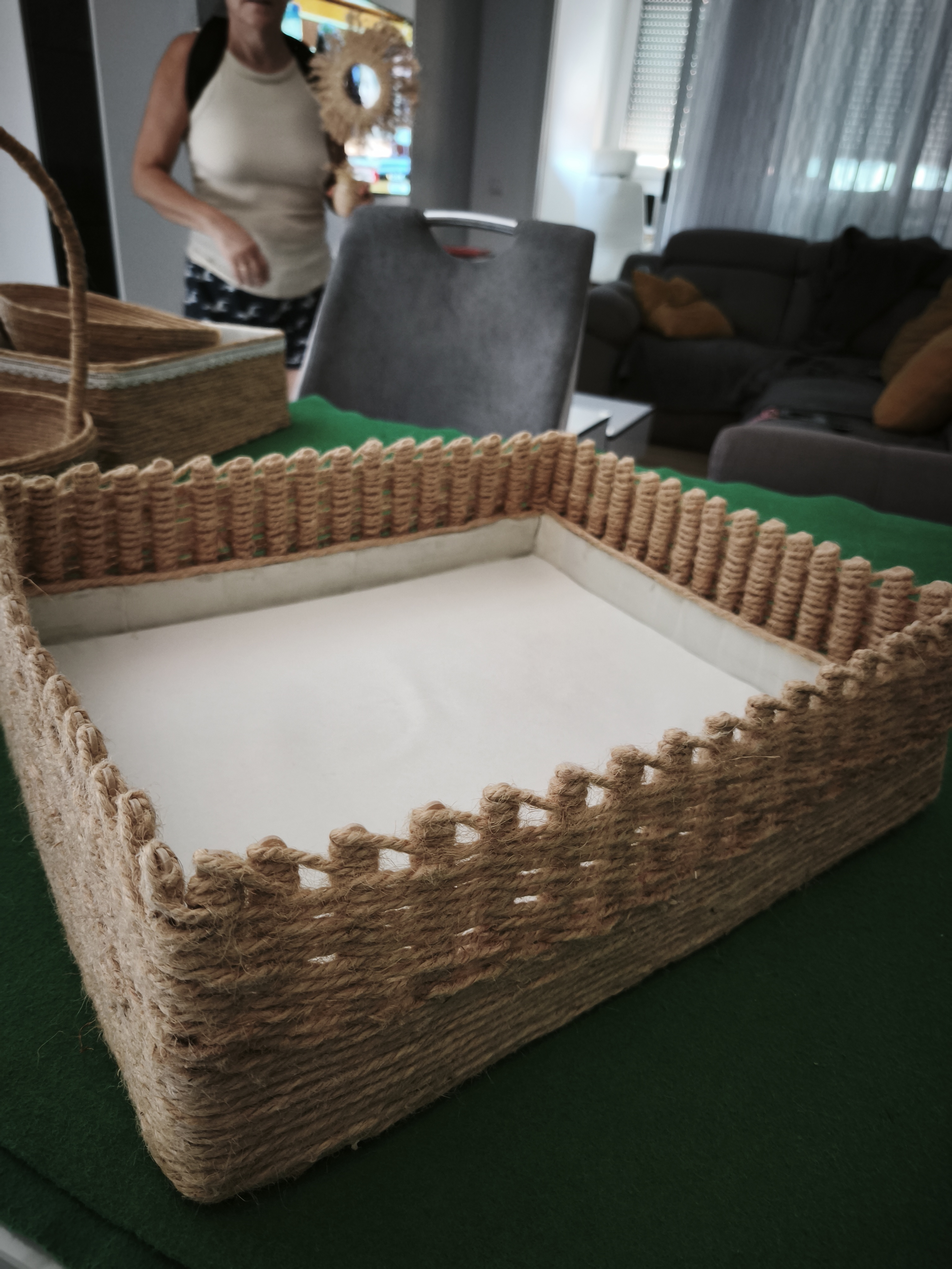
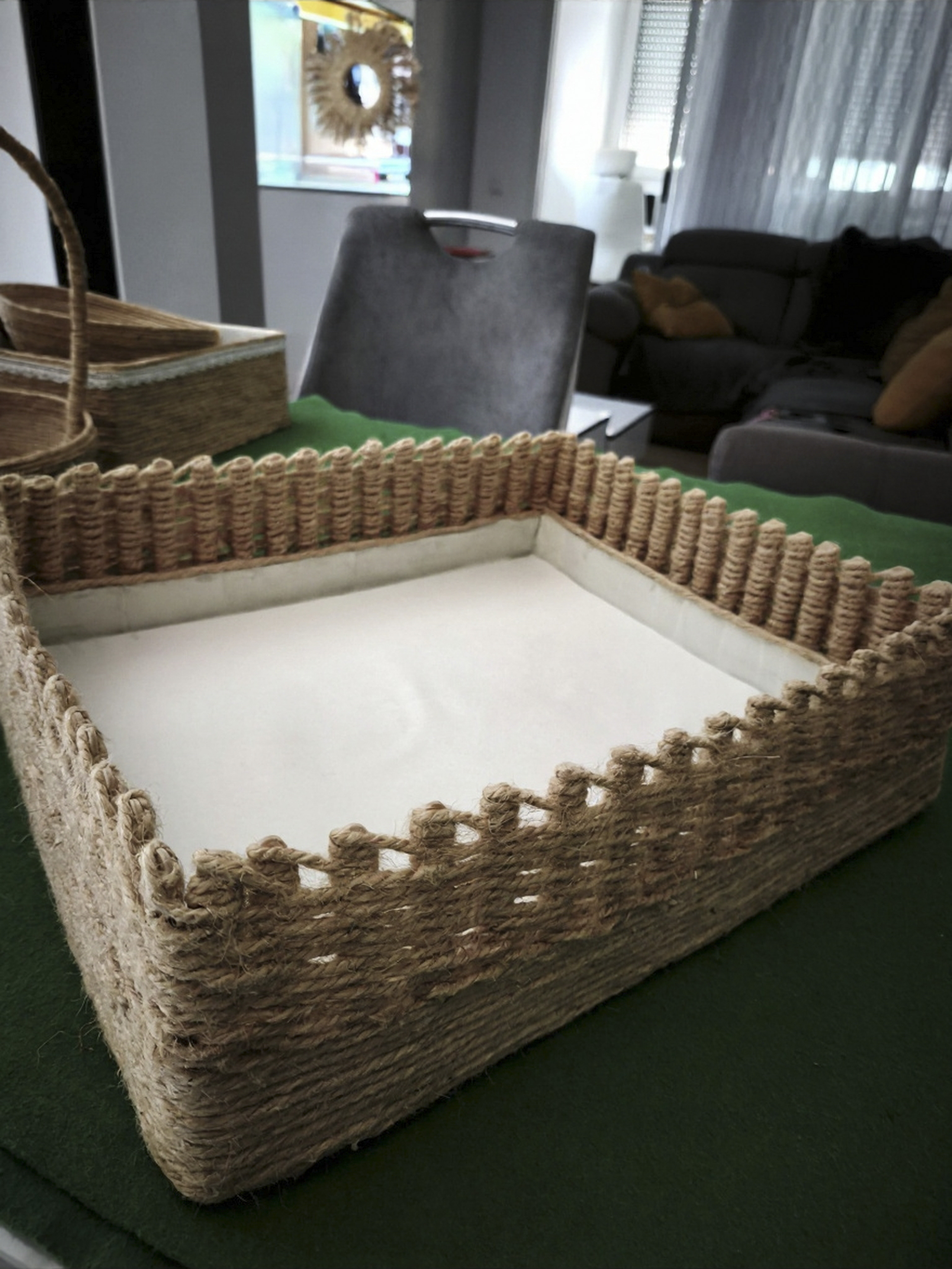
nuevas fotos
nuevas fotos

diff --git a/index.html b/index.html
@@ -4,7 +4,7 @@
     <meta charset="utf-8">
     <meta name="viewport" content="width=device-width, initial-scale=1">
     <meta name="theme-color" content="#f7f3ea">
-    <meta name="description" content="Eventere: artesanía hecha a mano para celebrar, decorar y regalar. Descubre las creaciones de Teresa.">
+    <meta name="description" content="Eventere: artesanía hecha a mano para celebrar, decorar y regalar. Descubre las creaciones de la artista.">
     <title>Eventere — Detalles que hacen especiales tus momentos</title>
     <link rel="preconnect" href="https://fonts.googleapis.com">
     <link rel="preconnect" href="https://fonts.gstatic.com" crossorigin>
@@ -45,7 +45,7 @@
         <div class="hero-copy">
           <p class="eyebrow"><span></span> Artesanía hecha con cariño</p>
           <h1 id="hero-title">Detalles únicos para <em>momentos inolvidables.</em></h1>
-          <p class="hero-intro">Creaciones artesanales de Teresa para celebrar, decorar y regalar. Cada pieza se hace con calma, cuidando lo que la hace especial.</p>
+          <p class="hero-intro">Creaciones artesanales de la artista para celebrar, decorar y regalar. Cada pieza se hace con calma, cuidando lo que la hace especial.</p>
           <div class="hero-actions">
             <a class="button button-dark" href="#coleccion">Descubrir la colección <span aria-hidden="true">↓</span></a>
             <a class="text-link" href="#taller">Conoce el taller <span aria-hidden="true">↗</span></a>
@@ -81,7 +81,7 @@
       <section class="collection section-wrap" id="coleccion" aria-labelledby="collection-title">
         <div class="section-heading">
           <div>
-            <p class="eyebrow"><span></span> El catálogo de Teresa</p>
+            <p class="eyebrow"><span></span> El catálogo de la artista</p>
             <h2 id="collection-title">Piezas con su propia <em>historia.</em></h2>
           </div>
           <p class="section-intro">Una selección de creaciones artesanales para vestir tus celebraciones y dar calidez a cada rincón.</p>
@@ -98,9 +98,9 @@
       </section>
 
       <section class="atelier" id="taller" aria-labelledby="atelier-title">
-        <div class="atelier-images" aria-label="Teresa trabajando en sus creaciones">
+        <div class="atelier-images" aria-label="La artista trabajando en sus creaciones">
           <figure class="atelier-photo atelier-photo-main">
-            <img src="img/IMG_20260728_183547.jpg" alt="Teresa trabajando cuidadosamente en una pieza artesanal" loading="lazy">
+            <img src="img/IMG_20260728_183547.jpg" alt="La artista trabajando cuidadosamente en una pieza artesanal" loading="lazy">
           </figure>
           <figure class="atelier-photo atelier-photo-detail">
             <img src="img/IMG_20260728_124043.jpg" alt="Detalle del proceso de creación de una alfombra artesanal" loading="lazy">
@@ -109,8 +109,8 @@
         </div>
         <div class="atelier-copy">
           <p class="eyebrow eyebrow-light"><span></span> Detrás de cada pieza</p>
-          <h2 id="atelier-title">Del taller de Teresa, <em>a un lugar especial.</em></h2>
-          <p>Cada creación empieza con una idea y va tomando forma poco a poco. En el taller, Teresa combina materiales, texturas y paciencia para dar vida a piezas únicas.</p>
+          <h2 id="atelier-title">Del taller de la artista, <em>a un lugar especial.</em></h2>
+          <p>Cada creación empieza con una idea y va tomando forma poco a poco. En su taller, la artista combina materiales, texturas y paciencia para dar vida a piezas únicas.</p>
           <p>Porque lo hecho a mano no solo decora: también guarda el tiempo, el cuidado y el cariño de quien lo creó.</p>
           <a class="button button-light" href="#contacto">Cuéntanos tu idea <span aria-hidden="true">↗</span></a>
         </div>
@@ -126,9 +126,9 @@
         </div>
         <div class="process-grid">
           <figure><img src="img/IMG_20260504_092347.jpg" alt="Materiales y una pieza artesanal durante su elaboración" loading="lazy"></figure>
-          <figure><img src="img/IMG_20260728_124034.jpg" alt="Teresa preparando una pieza de fibras naturales en su taller" loading="lazy"></figure>
+          <figure><img src="img/IMG_20260728_124034.jpg" alt="La artista preparando una pieza de fibras naturales en su taller" loading="lazy"></figure>
           <figure><img src="img/IMG_20260728_124041.jpg" alt="Detalle de materiales naturales listos para trabajar" loading="lazy"></figure>
-          <figure><img src="img/IMG_20260728_124046.jpg" alt="Teresa dando forma a una de sus creaciones" loading="lazy"></figure>
+          <figure><img src="img/IMG_20260728_124046.jpg" alt="La artista dando forma a una de sus creaciones" loading="lazy"></figure>
         </div>
       </section>
 
@@ -136,7 +136,7 @@
         <div class="contact-flower" aria-hidden="true">✳</div>
         <p class="eyebrow"><span></span> ¿Tienes algo en mente?</p>
         <h2 id="contact-title">Hagamos especial <em>tu momento.</em></h2>
-        <p class="contact-copy">Cuéntanos qué estás buscando. Teresa te ayudará a encontrar una pieza o a imaginar un detalle hecho para ti.</p>
+        <p class="contact-copy">Cuéntanos qué estás buscando. La artista te ayudará a encontrar una pieza o a imaginar un detalle hecho para ti.</p>
         <a class="button button-dark" href="https://wa.me/34618169377?text=Hola%2C%20me%20gustar%C3%ADa%20conocer%20las%20creaciones%20de%20Eventere." target="_blank" rel="noopener noreferrer">Escríbenos por WhatsApp <span aria-hidden="true">↗</span></a>
         <p class="contact-note">Sin precios estándar: cada encargo se habla directamente y con cariño.</p>
       </section>
@@ -157,7 +157,7 @@
         <a class="footer-top" href="#inicio">Volver arriba ↑</a>
       </div>
       <div class="footer-bottom">
-        <span>© <span id="current-year"></span> Eventere · Artesanía de Teresa</span>
+        <span>© <span id="current-year"></span> Eventere · Artesanía de la artista</span>
         <span>Hecho a mano, con cariño.</span>
       </div>
     </footer>

diff --git a/js/app.js b/js/app.js
@@ -28,7 +28,13 @@ const products = [
       ["IMG_20260630_132136.jpg", "Conjunto de cestas de distintos tamaños"],
       ["IMG_20260630_132145.jpg", "Cestas redondas y rectangulares de fibras naturales"],
       ["IMG_20260630_132238.jpg", "Cesta cuadrada para guardar pequeños objetos"],
-      ["IMG_20260630_132247.jpg", "Detalle de una cesta rectangular tejida"]
+      ["IMG_20260630_132247.jpg", "Detalle de una cesta rectangular tejida"],
+      ["IMG_20261026_102747.jpg", "Jarro artesanal de fibras naturales y bandejas"],
+      ["IMG_20261026_102815.jpg", "Jarroncito para adorno en aseos"],
+      ["IMG-20260507-WA0002.jpg", "Cestas y piezas decorativas artesanales en una estantería"],
+      ["IMG_20261026_102637.jpg", "Cestas y piezas decorativas artesanales en una estantería"],
+      ["IMG_20261026_102714.jpg", "Cestas y piezas decorativas artesanales en una estantería"],
+      ["IMG_20261026_102654.jpg", "Cestas y piezas decorativas artesanales en una estantería"]
     ]
   },
   {
@@ -45,7 +51,9 @@ const products = [
       ["IMG-20260522-WA0002.jpg", "Pieza decorativa circular hecha con fibras naturales"],
       ["IMG-20260522-WA0009.jpg", "Detalle circular artesanal presentado en una estantería"],
       ["IMG_20260630_132303.jpg", "Escultura circular de fibras naturales"],
-      ["IMG_20260630_132333.jpg", "Composición artesanal de fibras y flores"]
+      ["IMG_20260630_132333.jpg", "Composición artesanal de fibras y flores"],
+      ["IMG_20261026_102839.jpg", "Pequeños detalles decorativos artesanales"],
+      ["IMG_20261026_102734.jpg", "Detalle de piezas artesanales expuestas en el hogar"]
     ]
   },
   {
